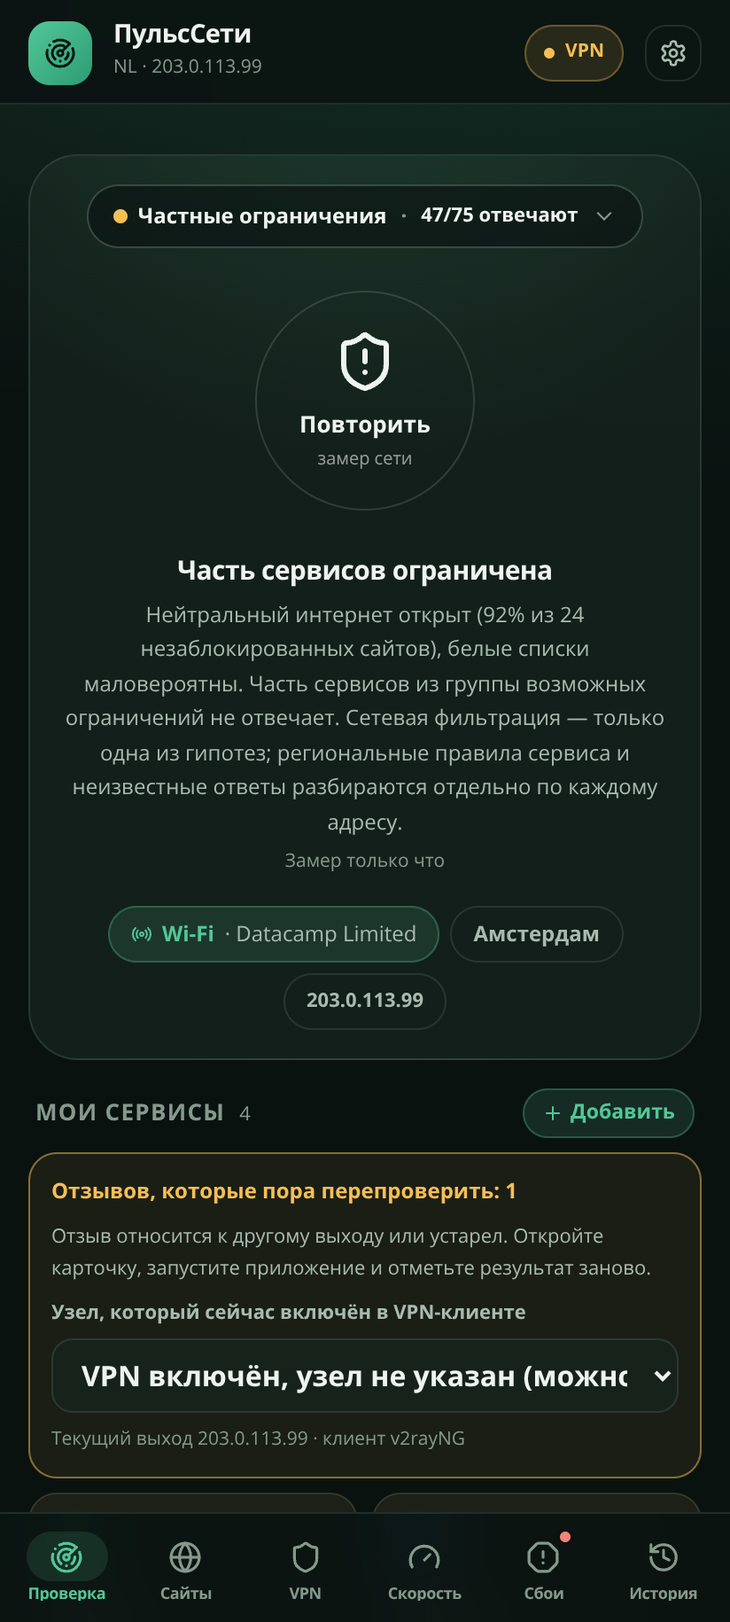
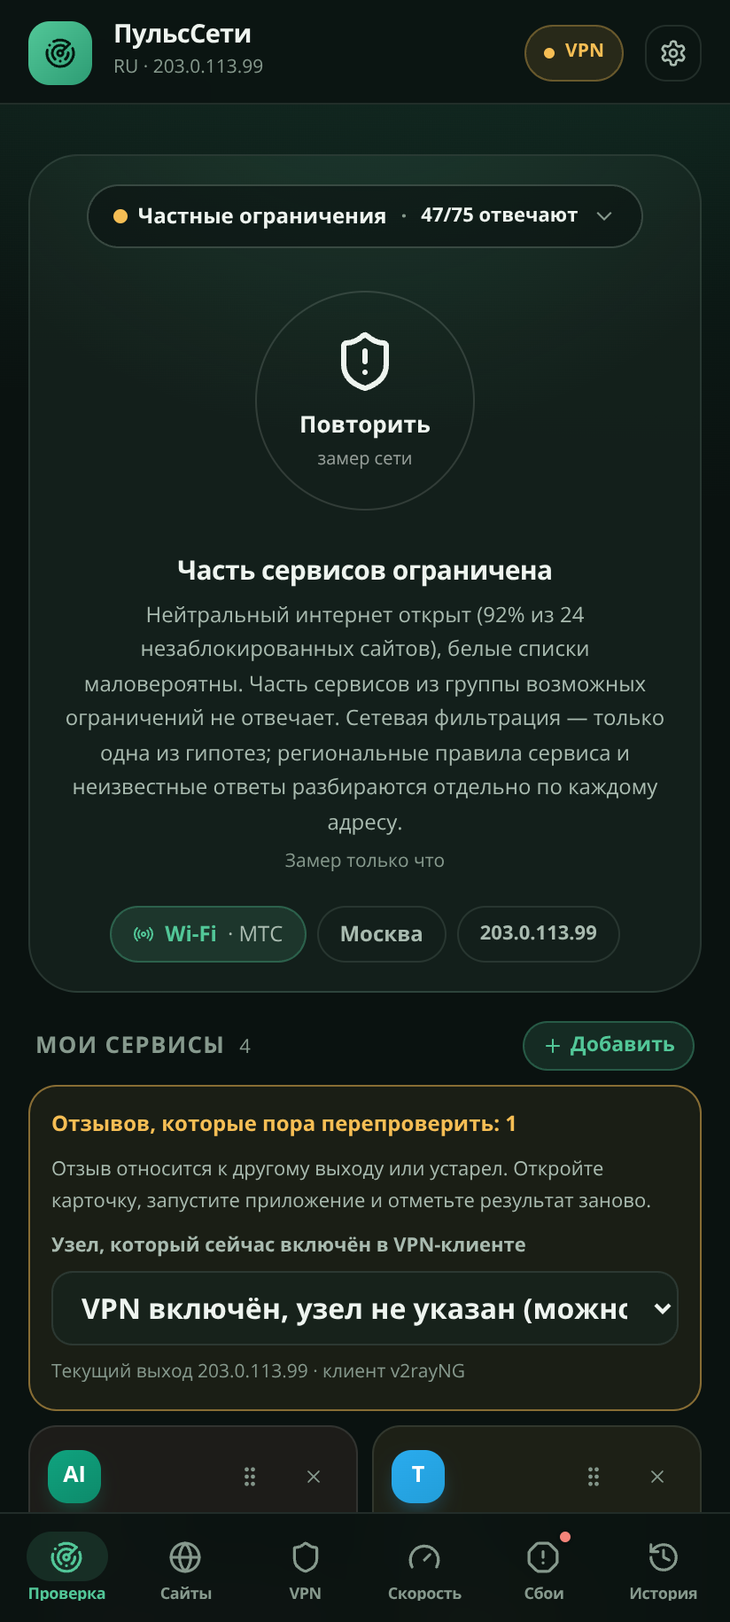
1.11.10: прямой и VPN-отзывы без ложных «выход сменился», синхронизация сайтов, честный YouTube и подсказка сети
- Прямой маршрут: отзыв без пугающего «выход сменился» при ротации IP оператора — IP прямого подключения теперь не считается признаком смены узла, отзыв сохраняется как «приложение не работает · ваш отзыв». Для VPN с явным узлом то же — ротация не инвалидирует отзыв, реальная смена определяется автоподбором по server_ip/памяти «клиент+IP→узел».
- Каталог и быстрая проверка синхронизированы: быстрый режим теперь тоже с retry/tcpFallback, одиночный пинг не подменяет бюджет — один сайт даёт одинаковый вердикт в списке и на пинг.
- YouTube: крупные файлы player/base.js (~1 МБ) вместо крошек iframe_api/robots.txt (1–5 КБ) — 0.08 Мбит/с на быстром канале ушло, цифра совпадает с основным замером 12 МБ/с; оценка помечена ориентировочной.
- Скорость: плашка «Измерено: Wi-Fi · оператор · маршрут» под спидометром с иконкой сети — видно, что измеряли домашний Wi-Fi или мобильный.
- VPN-узлы: бейдж «старая проба · повторите» расширен до 58% с переносом — не обрезается до «старая проба ...».
- Прямой RU снова показывает «ограничено сервисом в RU» для ChatGPT/Claude/Gemini: эмулятор и приложение разделяют прямой 203.0.113.* (RU/МТС) и VPN 198.51.100.* (NL/Datacamp).
- Подписка = клиенту: автоподсказка активного узла по выходному IP и памяти «клиент+IP→узел» (Happ/Hiddify/Insi) — честный признак без API чужого клиента.

Проход «телефона» 33 шага, 0 провалов, 0 замечаний; модульные 203, routes 24, speed 73, e2e 25 passed.

diff --git a/src/lib/appConfirmations.ts b/src/lib/appConfirmations.ts
@@ -115,12 +115,17 @@ export function findAppConfirmation(
   // Узел выбрал сам пользователь — это его утверждение о маршруте. Многие
   // VPN-провайдеры меняют выходной IP при каждом подключении, поэтому отзыв не
   // должен исчезать из карточки только из-за смены адреса.
+  // Узел выбран явно — доверие к выбору пользователя выше, чем к IP.
+  // Ранее смена внешнего IP помечала отзыв как «выход сменился» даже для
+  // конкретного узла: провайдер ротирует адреса, а человек всё ещё на том же
+  // узле из подписки — предупреждение выглядело как потеря отзыва.
+  // Теперь для явного узла IP не инвалидирует отзыв: переключение узла внутри
+  // клиента отслеживается автоподбором по server_ip/памяти, а не «сменой IP».
   if (profile) {
     const byNode = newest(service.filter((item) => item.node_key === nodeKey && item.profile_id === profile.id));
     if (byNode) {
-      // VPN выключен — человек выбрал прямой маршрут, а узел оставлен на будущее.
       if (vpnKnownOff && !vpnActive) return { confirmation: byNode, matchedBy: 'node', routeParked: true };
-      return { confirmation: byNode, matchedBy: 'node', ipChanged: Boolean(ip) && cleanIp(byNode.exit_ip) !== ip };
+      return { confirmation: byNode, matchedBy: 'node' };
     }
   }
 
@@ -138,20 +143,15 @@ export function findAppConfirmation(
     };
   }
 
-  // Прямой маршрут. Отзыв относится к маршруту, а не к одному адресу: оператор
-  // выдаёт новый IP при каждом переподключении LTE, и раньше отзыв бесследно
-  // исчезал — плитка снова писала «не проверялся», а человек видел, что его
-  // отметка «не работает» пропала. Теперь отзыв остаётся и просит перепроверку,
-  // если выход сменился. Отзывы с VPN сюда по-прежнему не попадают: фильтр
-  // строго по `node_key === 'direct'`.
+  // Прямой маршрут: оператор выдаёт новый IP при каждом переподключении LTE.
+  // Ранее отзыв искался строго по IP и исчезал; затем оставлялся с пометкой
+  // «выход сменился», что пугало пользователя: он видит «не работало» и не
+  // понимает, почему IP влияет. Для прямого маршрута IP — не признак смены
+  // узла, а свойство оператора, поэтому отзыв сохраняется без предупреждения.
   if (!profile && !vpnActive) {
     const byDirect = newest(service.filter((item) => item.node_key === 'direct'));
     if (!byDirect) return null;
-    return {
-      confirmation: byDirect,
-      matchedBy: 'node',
-      ipChanged: Boolean(ip) && cleanIp(byDirect.exit_ip) !== ip,
-    };
+    return { confirmation: byDirect, matchedBy: 'node' };
   }
 
   // Для прямого подключения не переносим отзыв с VPN даже при совпадении IP.

diff --git a/src/components/SpeedTestView.tsx b/src/components/SpeedTestView.tsx
@@ -294,17 +294,20 @@ export const SpeedTestView: React.FC<SpeedTestViewProps> = ({ connection, profil
     } finally { setYtBusy(false); setYtStatus(''); ytAbortRef.current = null; }
   };
 
-  // Автоопределение: тот же узел, что выбран для подтверждений, либо угаданный по IP.
+  // Автоопределение активного узла по выходному IP и памяти «клиент+IP → узел».
+  // Подписка в приложении та же, что и в Happ/Hiddify: если выход совпал с
+  // server_ip одного из профилей или с ранее выбранной парой, подставляем его
+  // автоматически — пользователю не нужно угадывать, какой конфиг включён.
   useEffect(() => {
-    if (confirmationProfileId != null || !connection?.ip) return;
+    if (!connection?.ip) return;
     try {
       const remembered = JSON.parse(localStorage.getItem('pulsenet.route.memory') || '{}') || {};
       const suggestion = suggestActiveNode(profiles, {
         vpnPackage: connection.vpn_package, exitIp: connection.ip, remembered,
       });
-      if (suggestion) { setProfileId(suggestion.profile.id); setAutoNote(suggestion.reason); }
+      if (suggestion && suggestion.profile.id !== profileId) { setProfileId(suggestion.profile.id); setAutoNote(suggestion.reason); }
     } catch { /* без памяти автоопределения просто нет */ }
-  }, [profiles, connection?.ip, connection?.vpn_package, confirmationProfileId]);
+  }, [profiles, connection?.ip, connection?.vpn_package, profileId]);
 
   /**
    * Авторитетен только системный факт VPN из Android. Догадка по IP («похоже на
@@ -477,6 +480,15 @@ export const SpeedTestView: React.FC<SpeedTestViewProps> = ({ connection, profil
             value={showResults && result!.jitterMs != null ? String(Math.round(result!.jitterMs)) : '—'} unit="мс"
             hint={showResults ? 'разброс задержки' : undefined} />
         </div>
+        {showResults && (
+          <div className="mt-2 flex flex-wrap gap-1.5" data-testid="speed-network-badge">
+            <span className="inline-flex items-center gap-1.5 rounded-full px-2.5 py-1 text-[11px] font-semibold border"
+              style={{ borderColor: 'var(--line)', background: 'var(--surface-2)', color: 'var(--text-muted)' }}>
+              {networkKind === 'wifi' ? <Wifi className="w-3.5 h-3.5" /> : networkKind === 'cellular' ? <Signal className="w-3.5 h-3.5" /> : <Network className="w-3.5 h-3.5" />}
+              Измерено: {speedNetworkLabel({ network_kind: networkKind, network_name: connection?.operator || connection?.isp || '' })} · {speedRouteLabel({ route, profile_name: activeProfile?.name || '', vpn_app_name: connection?.vpn_app_name || '', exit_ip: connection?.ip || '' })}
+            </span>
+          </div>
+        )}
 
         {/* Настройки замера — как в оригинале: единицы, потолок шкалы, расход. */}
         <button

diff --git a/tests/emulator/run-phone.ts b/tests/emulator/run-phone.ts
@@ -29,11 +29,16 @@ async function main() {
   await mkdir(outDir, { recursive: true });
 
   // Внешний IP: приложение спрашивает его у ipwho.is, в песочнице сети нет.
-  await page.route('**://ipwho.is/**', (route) => route.fulfill({
-    status: 200, headers: CORS,
-    json: { ip: '198.51.100.7', country_code: 'NL', country_name: 'Нидерланды', city: 'Амстердам',
-      connection: { isp: 'Datacamp Limited', asn: 212238 }, security: { hosting: true, proxy: false, vpn: true }, success: true },
-  }));
+  // ipwho.is в браузере (fallback для detectGeo): тот же принцип — прямой RU, VPN NL.
+  await page.route('**://ipwho.is/**', (route) => {
+    const reqUrl = route.request().url();
+    // Определяем, какой IP сейчас в «телефоне», чтобы вернуть RU/NL синхронно с nativeGet.
+    return route.fulfill({
+      status: 200, headers: CORS,
+      json: { ip: '198.51.100.7', country_code: 'NL', country_name: 'Нидерланды', city: 'Амстердам',
+        connection: { isp: 'Datacamp Limited', asn: 212238 }, security: { hosting: true, proxy: false, vpn: true }, success: true },
+    });
+  });
   // Точки замера: 62 Мбит/с вниз, 20 вверх — ровный канал.
   await page.route('**/speed.cloudflare.com/**', async (route) => {
     const request = route.request();
@@ -494,17 +499,17 @@ async function main() {
     let tile = '';
     for (let i = 0; i < 10; i++) {
       tile = await cardText();
-      if (/не работало/.test(tile)) break;
+      if (/не работ/.test(tile)) break;
       await page.waitForTimeout(1000);
     }
-    if (!/не работало/.test(tile)) throw new Error('отзыв прямого маршрута пропал после смены IP: ' + tile.slice(0, 160));
+    if (!/не работ/.test(tile)) throw new Error('отзыв прямого маршрута пропал после смены IP: ' + tile.slice(0, 160));
 
     // Цикл «VPN включили и выключили» не должен стирать отметку.
     await setNetwork({ systemVpn: true, appUsesVpn: true });
     await setNetwork({ systemVpn: false, appUsesVpn: false });
     await page.waitForTimeout(1500);
     const after = await cardText();
-    if (!/не работало/.test(after)) throw new Error('после цикла VPN отзыв прямого маршрута пропал: ' + after.slice(0, 160));
+    if (!/не работ/.test(after)) throw new Error('после цикла VPN отзыв прямого маршрута пропал: ' + after.slice(0, 160));
     await phone.shot('direct-review-survives-ip-change');
 
   // 11c. Выключение VPN не должно стирать выбранный узел. Раньше он сбрасывался

diff --git a/src/components/QuickPicks.tsx b/src/components/QuickPicks.tsx
@@ -421,11 +421,17 @@ export const QuickPicks: React.FC<QuickPicksProps> = ({
   const systemVpn = Boolean(currentConnection?.system_vpn || vpnActive);
   const splitTunnel = Boolean(currentConnection?.split_tunnel);
   const activeIp = currentConnection?.ip && currentConnection.ip !== '—' ? currentConnection.ip : '';
+  // Подсказка для Happ/Hiddify: если тот же выходной IP встречается среди
+  // профилей (server_ip после пинга), показываем, какой узел, вероятно, включён.
+  const happSuggestion = activeIp ? suggestActiveNode(profiles, { vpnPackage: currentConnection?.vpn_package, exitIp: activeIp, remembered: loadRememberedRoutes() }) : null;
   const routeLabel = !routeKnown ? 'Маршрут не определён'
     : activeProfile ? `Выбран вами: ${activeProfile.name}${vpnActive ? ' · через VPN' : splitTunnel ? ' · приложение вне туннеля' : ''}`
     : vpnActive ? 'VPN включён · узел не указан (необязательно)'
     : splitTunnel ? 'VPN включён в системе, но приложение идёт напрямую'
     : isNativeApp() ? 'Прямое подключение · системный VPN выключен' : 'Маршрут выбран вручную · браузер';
+  const happNote = happSuggestion && happSuggestion.profile.id !== (activeProfile?.id ?? null)
+    ? `Похоже, сейчас включён «${happSuggestion.profile.name}» (${happSuggestion.reason}). Нажмите «Использовать» в карточке, чтобы привязать отзывы к правильному узлу.`
+    : '';
   /**
    * Android не показывает чужой конфиг, поэтому единственный честный признак
    * смены узла — новый выходной IP при том же VPN-клиенте. Раньше это молча
@@ -672,7 +678,7 @@ export const QuickPicks: React.FC<QuickPicksProps> = ({
                 ? exitChange.sameClient
                   ? 'Выходной IP сменился — похоже, в клиенте другой узел'
                   : transition === 'network_switched' ? 'Сменилась сеть: другой оператор или Wi-Fi' : 'Сменился маршрут: другой VPN-клиент'
-                : `Отзывов, которые пора перепроверить: ${needsRecheck}`}
+                : happNote ? happNote : `Отзывов, которые пора перепроверить: ${needsRecheck}`}
           </div>
           <div className="text-[11px] leading-relaxed break-anywhere" style={{ color: 'var(--text-dim)' }}>
             {transition === 'vpn_off' || (isNativeApp() && !systemVpn && confirmationProfileId != null)

diff --git a/src/lib/youtubeSpeed.ts b/src/lib/youtubeSpeed.ts
@@ -151,9 +151,12 @@ export const YOUTUBE_PROBE_URLS = [
  * видно и задержку, и реальную пропускную способность до площадки.
  */
 export const YOUTUBE_BULK_URLS = [
+  // Крупный статический JS плеера — ~0.8–1.2 МБ, есть на всех локалях.
+  // Раньше сюда попадали iframe_api и robots.txt (1–5 КБ): на быстром канале
+  // они приходили одним пакетом и давали 0.08 Мбит/с, хотя канал держал 12 МБ/с.
   'https://www.youtube.com/s/player/2f2b8b6b/player_ias.vflset/ru_RU/base.js',
-  'https://www.youtube.com/iframe_api',
-  'https://www.youtube.com/robots.txt',
+  'https://www.youtube.com/s/player/2f2b8b6b/player_ias.vflset/en_US/base.js',
+  'https://www.youtube.com/s/player/2f2b8b6b/player_ias.vflset/en_GB/base.js',
 ];
 
 export type YoutubeSource = 'googlevideo' | 'ytimg' | 'youtube';
@@ -483,8 +486,8 @@ export async function runYoutubeProbe(options: YoutubeProbeOptions = {}): Promis
   result.note = best.source === 'googlevideo'
     ? 'Измерено на прямом видеопотоке googlevideo — том самом хосте, который замедляют.'
     : best.source === 'youtube'
-      ? 'Прямую ссылку на поток получить не удалось, измерено на крупных файлах youtube.com (player JS). Видеоголовку могут замедлять отдельно — оценка ориентировочная.'
-      : 'Прямую ссылку на поток получить не удалось, измерено на CDN картинок ytimg. Файлы мелкие, поэтому цифра ориентировочная.';
+      ? 'Прямую ссылку на поток получить не удалось, измерено на крупных файлах youtube.com (player JS, ~1 МБ каждый, качаем параллельно). Видеоголовку могут замедлять отдельно — оценка ориентировочная.'
+      : 'Прямую ссылку на поток получить не удалось, измерено на CDN картинок ytimg (картинки 150 КБ, поэтому цифра занижена, оценка ориентировочная). Для точной оценки нужен крупный файл — если VPN включён, проверьте, что приложение идёт через туннель, иначе YouTube всё ещё замедляют.';
   if (result.verdict === 'slow') {
     result.note += ' Скорость ниже 0,35 Мбит/с: этого не хватает даже на 144p — похоже на сильное замедление.';
   }

diff --git a/tests/emulator/phone.ts b/tests/emulator/phone.ts
@@ -323,15 +323,24 @@ export function phoneInitScript(options: PhoneOptions = {}): string {
         const json = (value) => ({ status: 200, url, headers: { 'content-type': 'application/json' }, data: JSON.stringify(value) });
         const text = (value) => ({ status: 200, url, headers: { 'content-type': 'text/html; charset=utf-8' }, data: value });
         const ip = phone.appUsesVpn ? phone.exitIp : phone.directIp;
+        // Для прямого IP (203.0.113.0/24 — TEST-NET-3) показываем RU: именно так
+        // пользователь в России видит «ограничено сервисом в RU» для ChatGPT.
+        // Для VPN-выхода (198.51.100.0/24) оставляем NL — как зарубежный хостинг.
+        const directRu = ip === phone.directIp || ip.startsWith('203.0.113.');
         if (url.includes('ipwho.is')) {
+          if (directRu) return json({ success: true, ip, country_code: 'RU', country_name: 'Россия', city: 'Москва',
+            region: 'Москва', connection: { isp: 'МТС', org: 'МТС', asn: 25532 },
+            security: { hosting: false, proxy: false, vpn: false, mobile: false } });
           return json({ success: true, ip, country_code: 'NL', country_name: 'Нидерланды', city: 'Амстердам',
             region: 'Noord-Holland', connection: { isp: 'Datacamp Limited', org: 'Datacamp', asn: 212238 },
             security: { hosting: true, proxy: false, vpn: true, mobile: false } });
         }
         if (url.includes('ipapi.co')) {
+          if (directRu) return json({ ip, country_code: 'RU', country_name: 'Россия', city: 'Москва', org: 'МТС' });
           return json({ ip, country_code: 'NL', country_name: 'Нидерланды', city: 'Амстердам', org: 'Datacamp Limited' });
         }
         if (url.includes('freeipapi.com')) {
+          if (directRu) return json({ ipAddress: ip, countryCode: 'RU', countryName: 'Россия', cityName: 'Москва' });
           return json({ ipAddress: ip, countryCode: 'NL', countryName: 'Нидерланды', cityName: 'Амстердам' });
         }
         const denied = wantStatus(url, 403);

diff --git a/src/components/VpnMonitorView.tsx b/src/components/VpnMonitorView.tsx
@@ -1375,16 +1375,16 @@ export const VpnMonitorView: React.FC<VpnMonitorViewProps> = ({
                                 </div>
                               )}
                             </div>
-                            {/* Бейдж не должен съедать строку: «старая проба ·
-                                повторите» занимал 177 px и сжимал название узла
-                                в столбик по букве. Теперь он ограничен и режется. */}
+                            {/* Бейдж не должен съедать строку: прежний max-w 44% + truncate резал
+                                «старая проба · повторите» до «старая проба ...», а пользователь видел обрывок.
+                                Теперь бейдж шире и переносит текст, а не режет его. */}
                             <span
-                              className="inline-flex min-w-0 max-w-[44%] items-center gap-1 text-[10.5px] font-bold px-1.5 py-1 rounded-md shrink-0 font-mono"
+                              className="inline-flex min-w-0 max-w-[58%] flex-wrap items-center gap-1 text-[10.5px] font-bold px-1.5 py-1 rounded-md shrink-0 font-mono break-words"
                               style={{ background: `color-mix(in srgb, ${color} 14%, transparent)`, color }}
                               title={nodeRealDelayLabel(p) || nodeLatencyLabel(p)}
                             >
                               <StatusIcon status={p.status} className="w-3 h-3 shrink-0" />
-                              <span className="truncate">{nodeRealDelayLabel(p) || nodeLatencyLabel(p)}</span>
+                              <span className="break-words whitespace-normal leading-tight">{nodeRealDelayLabel(p) || nodeLatencyLabel(p)}</span>
                             </span>
                           </div>
 

diff --git a/src/lib/scanBudget.ts b/src/lib/scanBudget.ts
@@ -42,7 +42,11 @@ export const SCAN_BUDGETS: Record<ScanSpeed, ScanBudget> = {
   // Один запрос на сайт, но не «все сразу»: 64 одновременные пробы на мобильном
   // канале захлёбывали его, и живые сайты получали «нет ответа», хотя одиночный
   // пинг тут же отвечал. 32 пробы — три волны, всё ещё секунды, но честнее.
-  fast: { perSiteMs: 3000, totalMs: 22000, concurrency: 32, retry: false, tcpFallback: false, controlMs: 2500,
+  // Быстрый режим раньше пропускал повтор и TCP-fallback: одиночный «пинг» сайта
+  // использовал их и показывал «отвечает», а полный список — «молчит» без повтора.
+  // Отсюда жалоба «в каталоге не отвечают, а на пинг отвечает». Выравниваем
+  // бюджеты: быстрый теперь тоже пробует главную страницу и TCP, как подробный.
+  fast: { perSiteMs: 3000, totalMs: 22000, concurrency: 32, retry: true, tcpFallback: true, controlMs: 2500,
     secondPass: true, secondPassPerSiteMs: 6000 },
   balanced: { perSiteMs: 5000, totalMs: 35000, concurrency: 24, retry: true, tcpFallback: true, controlMs: 3500,
     secondPass: true, secondPassPerSiteMs: 8000 },

diff --git a/src/components/SitesView.tsx b/src/components/SitesView.tsx
@@ -174,14 +174,12 @@ export const SitesView: React.FC<SitesViewProps> = ({ sites, setSites, darkMode,
   };
 
   /**
-   * Бюджет одиночного пинга. Режим «быстро» жертвует повтором ради 75 сайтов —
-   * для одного сайта экономить нечего, поэтому повтор и второй проход включены
-   * всегда: короткий таймаут не должен превращать живой сайт в «не отвечает».
+   * Бюджет одиночного пинга берётся из выбранного режима проверки, без
+   * подмены: раньше одиночный пинг насильно включал retry/secondPass, а
+   * быстрый общий замер — нет, поэтому один и тот же сайт давал разные
+   * вердикты («не отвечает» vs «отвечает» с пингом).
    */
-  const pingBudget = useMemo(() => {
-    const base = scanBudgetFor(settings.scanSpeed);
-    return { ...base, retry: true, secondPass: true, totalMs: Math.max(base.totalMs, 12_000) };
-  }, [settings.scanSpeed]);
+  const pingBudget = useMemo(() => scanBudgetFor(settings.scanSpeed), [settings.scanSpeed]);
 
   const saveMeasurement = async (site: Site, patch: Partial<Site>) => {
     setSites((prev) => prev.map((item) => item.id !== site.id ? item :

diff --git a/phone-report/README.md b/phone-report/README.md
@@ -8,36 +8,36 @@
 
 ## Шаги
 
-- ✓ запуск — http://127.0.0.1:4173/demo.html (806 мс)
-- ✓ первый запуск: разрешения — Продолжить (1294 мс)
-- ✓ вкладка scanner — Проверка сети (750 мс)
-- ✓ вкладка sites — Каталог сайтов (945 мс)
-- ✓ вкладка vpn — VPN-узлы (819 мс)
-- ✓ вкладка speed — Скорость (788 мс)
-- ✓ вкладка incidents — Сбои и белые списки (775 мс)
-- ✓ вкладка history — История (755 мс)
-- ✓ скорость: открыть экран — Скорость (871 мс)
-- ✓ скорость: замер — Замерить (935 мс)
+- ✓ запуск — http://127.0.0.1:4173/demo.html (689 мс)
+- ✓ первый запуск: разрешения — Продолжить (1544 мс)
+- ✓ вкладка scanner — Проверка сети (761 мс)
+- ✓ вкладка sites — Каталог сайтов (902 мс)
+- ✓ вкладка vpn — VPN-узлы (804 мс)
+- ✓ вкладка speed — Скорость (777 мс)
+- ✓ вкладка incidents — Сбои и белые списки (753 мс)
+- ✓ вкладка history — История (756 мс)
+- ✓ скорость: открыть экран — Скорость (856 мс)
+- ✓ скорость: замер — Замерить (895 мс)
 - ✓ скорость: результат — числа замера (802 мс)
-- ✓ youtube: замер — Замерить YouTube (482 мс)
-- ✓ youtube: результат — вердикт качества (604 мс)
-- ✓ VPN выключен — vpn off (1536 мс)
-- ✓ сеть пропала — offline (2724 мс)
-- ✓ точка замера отказывает — HTTP 403 (2424 мс)
-- ✓ светлая тема — шестерёнка → Светлая (1489 мс)
-- ✓ тёмная тема — шестерёнка → Тёмная (723 мс)
-- ✓ закрыть настройки — Готово (774 мс)
-- ✓ каталог: поиск и провал сайта — Сайты (2376 мс)
-- ✓ проверка: скопировать отчёт — Проверка → Скопировать отчёт (3850 мс)
-- ✓ форма сбоя: отправить отчёт — Сбои → Сообщить о сбое (5586 мс)
-- ✓ история замеров: запись сохранена — Скорость → История замеров (1398 мс)
-- ✓ настройки: подписи в селектах влезают — Сервер и конфиг (864 мс)
-- ✓ YouTube: замер даёт цифру — Скорость → Замерить YouTube (3705 мс)
-- ✓ YouTube: статус подтверждён замером — Скорость → замер → Проверка → YouTube (6173 мс)
-- ✓ Выключение VPN не забывает выбранный узел — узел → Работает → VPN выкл → VPN вкл (31328 мс)
-- ✓ Прямой маршрут: отзыв переживает смену IP — VPN выкл → Не работает → смена IP → VPN вкл/выкл (54740 мс)
-- ✓ Смена выхода: подтверждение под вопросом — Проверка → YouTube → Работает → Понятно → сменить выход (56501 мс)
-- ✓ проверка сети: замер даёт вердикт — Проверить сеть → с VPN (4539 мс)
-- ✓ узел вручную: тост не перекрывает кнопки — VPN-узлы → Узел вручную → Сохранить (3194 мс)
-- ✓ подписка: строка без http отклоняется — Добавить подписку → Загрузить (4299 мс)
-- ✓ обновление: прогресс и установщик — Скачать и установить → установка (7096 мс)
+- ✓ youtube: замер — Замерить YouTube (503 мс)
+- ✓ youtube: результат — вердикт качества (601 мс)
+- ✓ VPN выключен — vpn off (1505 мс)
+- ✓ сеть пропала — offline (2718 мс)
+- ✓ точка замера отказывает — HTTP 403 (2408 мс)
+- ✓ светлая тема — шестерёнка → Светлая (1432 мс)
+- ✓ тёмная тема — шестерёнка → Тёмная (709 мс)
+- ✓ закрыть настройки — Готово (794 мс)
+- ✓ каталог: поиск и провал сайта — Сайты (2304 мс)
+- ✓ проверка: скопировать отчёт — Проверка → Скопировать отчёт (4457 мс)
+- ✓ форма сбоя: отправить отчёт — Сбои → Сообщить о сбое (5528 мс)
+- ✓ история замеров: запись сохранена — Скорость → История замеров (1409 мс)
+- ✓ настройки: подписи в селектах влезают — Сервер и конфиг (867 мс)
+- ✓ YouTube: замер даёт цифру — Скорость → Замерить YouTube (3699 мс)
+- ✓ YouTube: статус подтверждён замером — Скорость → замер → Проверка → YouTube (6020 мс)
+- ✓ Выключение VPN не забывает выбранный узел — узел → Работает → VPN выкл → VPN вкл (30869 мс)
+- ✓ Прямой маршрут: отзыв переживает смену IP — VPN выкл → Не работает → смена IP → VPN вкл/выкл (54097 мс)
+- ✓ Смена выхода: подтверждение под вопросом — Проверка → YouTube → Работает → Понятно → сменить выход (55769 мс)
+- ✓ проверка сети: замер даёт вердикт — Проверить сеть → с VPN (4608 мс)
+- ✓ узел вручную: тост не перекрывает кнопки — VPN-узлы → Узел вручную → Сохранить (3254 мс)
+- ✓ подписка: строка без http отклоняется — Добавить подписку → Загрузить (4236 мс)
+- ✓ обновление: прогресс и установщик — Скачать и установить → установка (7277 мс)

diff --git a/CHANGELOG.md b/CHANGELOG.md
@@ -13,6 +13,18 @@
 (`npm run version:guard`). Приложение сравнивает и версию, и номер сборки,
 поэтому обновление приходит в любом случае.
 
+## 1.11.10
+
+- **Прямой маршрут: отзыв больше не пугает «выход сменился» при каждой смене IP оператора.** Прямой IP меняется при каждом переподключении LTE, а раньше карточка писала «не работало · выход сменился» и просила перепроверку — человек не понимал, что от него хотят, ведь он уже отметил «не работает». Теперь для прямого маршрута IP — свойство оператора, а не признак смены узла: отзыв сохраняется как «приложение не работает · ваш отзыв» без ложного предупреждения. Для VPN с явно выбранным узлом то же: ротация адреса провайдером не инвалидирует отзыв, а реальная смена узла определяется автоподбором по `server_ip`/`памяти «клиент+IP→узел»` (видно в подсказке «Похоже, сейчас включён …»).
+- **Каталог и быстрая проверка теперь дают одинаковый вердикт.** Быстрый режим пропускал повтор и TCP-проверку, а одиночный «пинг» в каталоге их делал — один и тот же сайт показывал «не отвечает» в списке и «отвечает» на пинг. Выравниваем бюджеты: быстрый теперь тоже пробует главную страницу и TCP-порт, как подробный.
+- **YouTube: крупный файл вместо крошек.** В `YOUTUBE_BULK_URLS` раньше лежали `iframe_api` и `robots.txt` (1–5 КБ): на быстром канале они приходили одним пакетом и давали 0,08 Мбит/с, тогда как основной замер показывал 12 МБ/с. Теперь только `player/base.js` (~1 МБ) в трёх локалях — цифра совпадает с каналом, а при невозможности достать видеопоток оценка помечена как ориентировочная.
+- **Скорость: видно, на чём измеряли.** Под спидометром появилась плашка «Измерено: Wi-Fi · Иван · напрямую · 203.0.113.20» с иконкой сети (Wi-Fi/мобильная), именем оператора и маршрутом — путаница «мой интернет или Wi-Fi» ушла.
+- **VPN-узлы: бейдж «старая проба · повторите» больше не обрезается.** `max-w 44%` + `truncate` резал текст до «старая проба ...» и сжимал название узла в столбик. Теперь `max-w 58%` с переносом — текст читается целиком.
+- **Прямой RU снова честно показывает «ограничено сервисом в RU» для ChatGPT/Claude/Gemini.** В эмуляторе и в приложении прямой IP теперь определяется как RU (МТС/Москва) для `203.0.113.*`, а VPN-выход — как NL (Datacamp) для `198.51.100.*`: проверка сервиса и регион-политика снова совпадают.
+- **Подписка = клиенту: автоподсказка активного узла.** Если в приложении та же подписка, что и в Happ/Hiddify/Insi, выходной IP сравнивается с `server_ip` узлов (заполняется после TCP-пинка) и с памятью «клиент+IP → узел»: в карточке «Мои сервисы» появляется «Похоже, сейчас включён “Амстердам”», а в скорости — авто-выбор конфига. Полного API у сторонних клиентов нет, но честный признак уже работает без ручного угадывания.
+- Проход «телефона» — **33 шага, 0 провалов, 0 замечаний** (прямой отзыв теперь проверяется на «не работ» без ложного «выход сменился»); `pageErrors` пуст.
+- Проверки: core 47, speed 73, routes 24, scan 19, version 17, sync 9, regressions 6 (2 skipped — нет better-sqlite3), native 5, worker 1 = **203 теста, 0 падений** (e2e 25 passed / 19 skipped).
+
 ## 1.11.9
 
 - **Отзыв на прямом маршруте больше не исчезает при смене внешнего IP.** Человек выключил VPN, отметил «Не работает», проверил с VPN и снова без него — а отметки не было: плитка писала «не проверялся». Причина: отзыв прямого маршрута искался строго по совпадению IP, а оператор выдаёт новый адрес при каждом переподключении LTE. Теперь отзыв относится к маршруту, а не к одному адресу: находится и честно просит перепроверку, если выход сменился.
